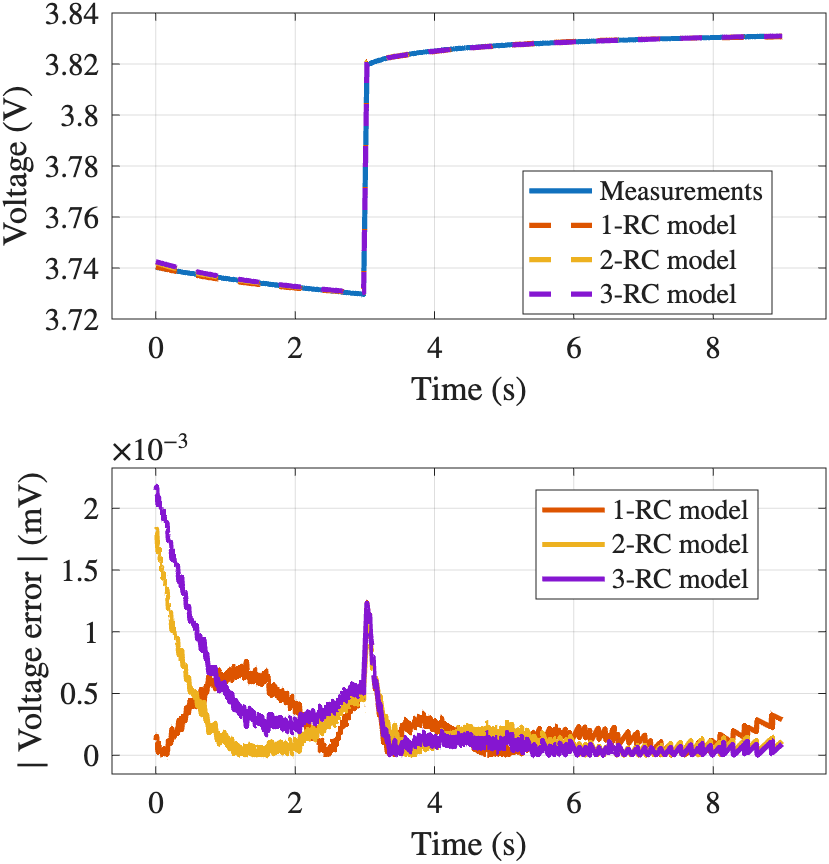
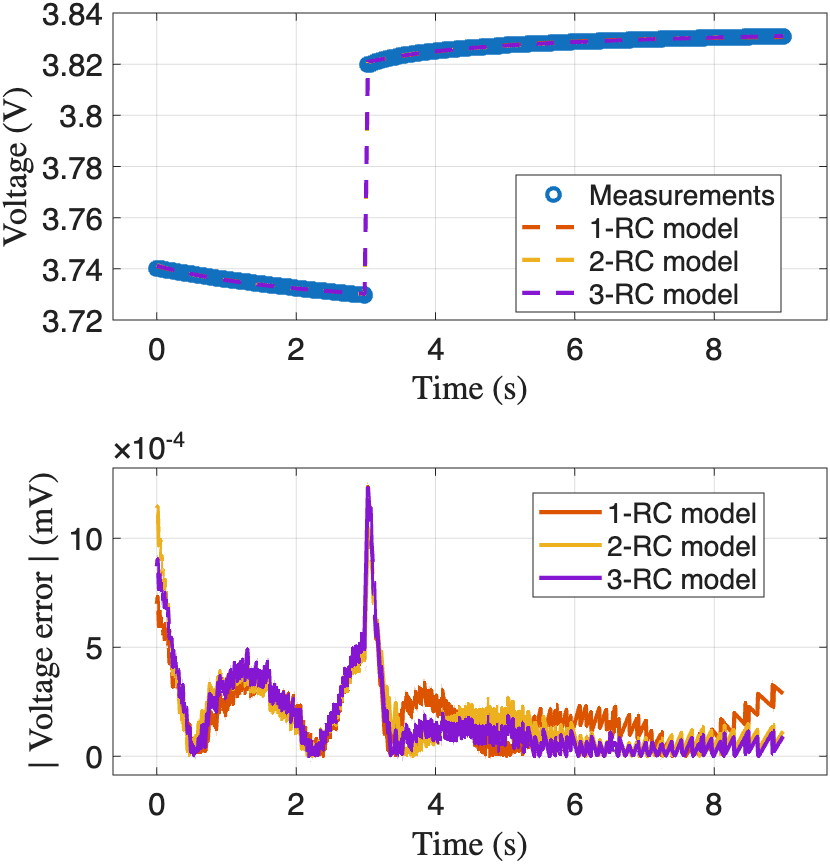
Fixed bug!

diff --git a/Demo.m b/Demo.m
@@ -1,5 +1,6 @@
 clc, clear, close all;
-
+set(groot,'DefaultLineLineWidth',2);
+set(groot,'defaultAxesFontSize', 15); 
 %% Load data
 BattData = load('SamplePulseRelaxationData.mat');
 
@@ -19,7 +20,7 @@ C1    = theta_1RC(5);
 
 % voltage prediction
 i1    = currentRC(ibatt, t, R1*C1);
-v_1RC = OCV0 + ibatt*R0 + i1*R1 + kappa*trapz(t,ibatt);
+v_1RC = OCV0 + ibatt*R0 + i1*R1 + kappa*cumtrapz(t,ibatt);
 
 %%  2-RC estimation
 
@@ -35,7 +36,7 @@ C2  = theta_2RC(7);
 % voltage prediction
 i1    = currentRC(ibatt, t, R1*C1);
 i2    = currentRC(ibatt, t, R2*C2);
-v_2RC = OCV0 + ibatt*R0 + i1*R1 + i2*R2  + kappa*trapz(t,ibatt);
+v_2RC = OCV0 + ibatt*R0 + i1*R1 + i2*R2  + kappa*cumtrapz(t,ibatt);
 
 %%  3-RC
 
@@ -54,7 +55,7 @@ C3  = theta_3RC(9);
 i1    = currentRC(ibatt, t, R1*C1);
 i2    = currentRC(ibatt, t, R2*C2);
 i3    = currentRC(ibatt, t, R3*C3);
-v_3RC = OCV0 + ibatt*R0 + i1*R1 + i2*R2 + i3*R3 + kappa*trapz(t,ibatt);
+v_3RC = OCV0 + ibatt*R0 + i1*R1 + i2*R2 + i3*R3 + kappa*cumtrapz(t,ibatt);
 
 %%
 
@@ -64,7 +65,7 @@ nexttile(1)
 hold on; axis('padded'); grid on; box on;
 xlabel('Time (s)',Interpreter='latex'); ylabel('Voltage (V)',Interpreter='latex'); 
 legend(Location='best')
-plot(t-t(1),vbatt,'-',DisplayName='Measurements')
+plot(t-t(1),vbatt,'o',DisplayName='Measurements')
 plot(t-t(1),v_1RC,'--',DisplayName='1-RC model')
 plot(t-t(1),v_2RC,'--',DisplayName='2-RC model')
 plot(t-t(1),v_3RC,'--',DisplayName='3-RC model')
